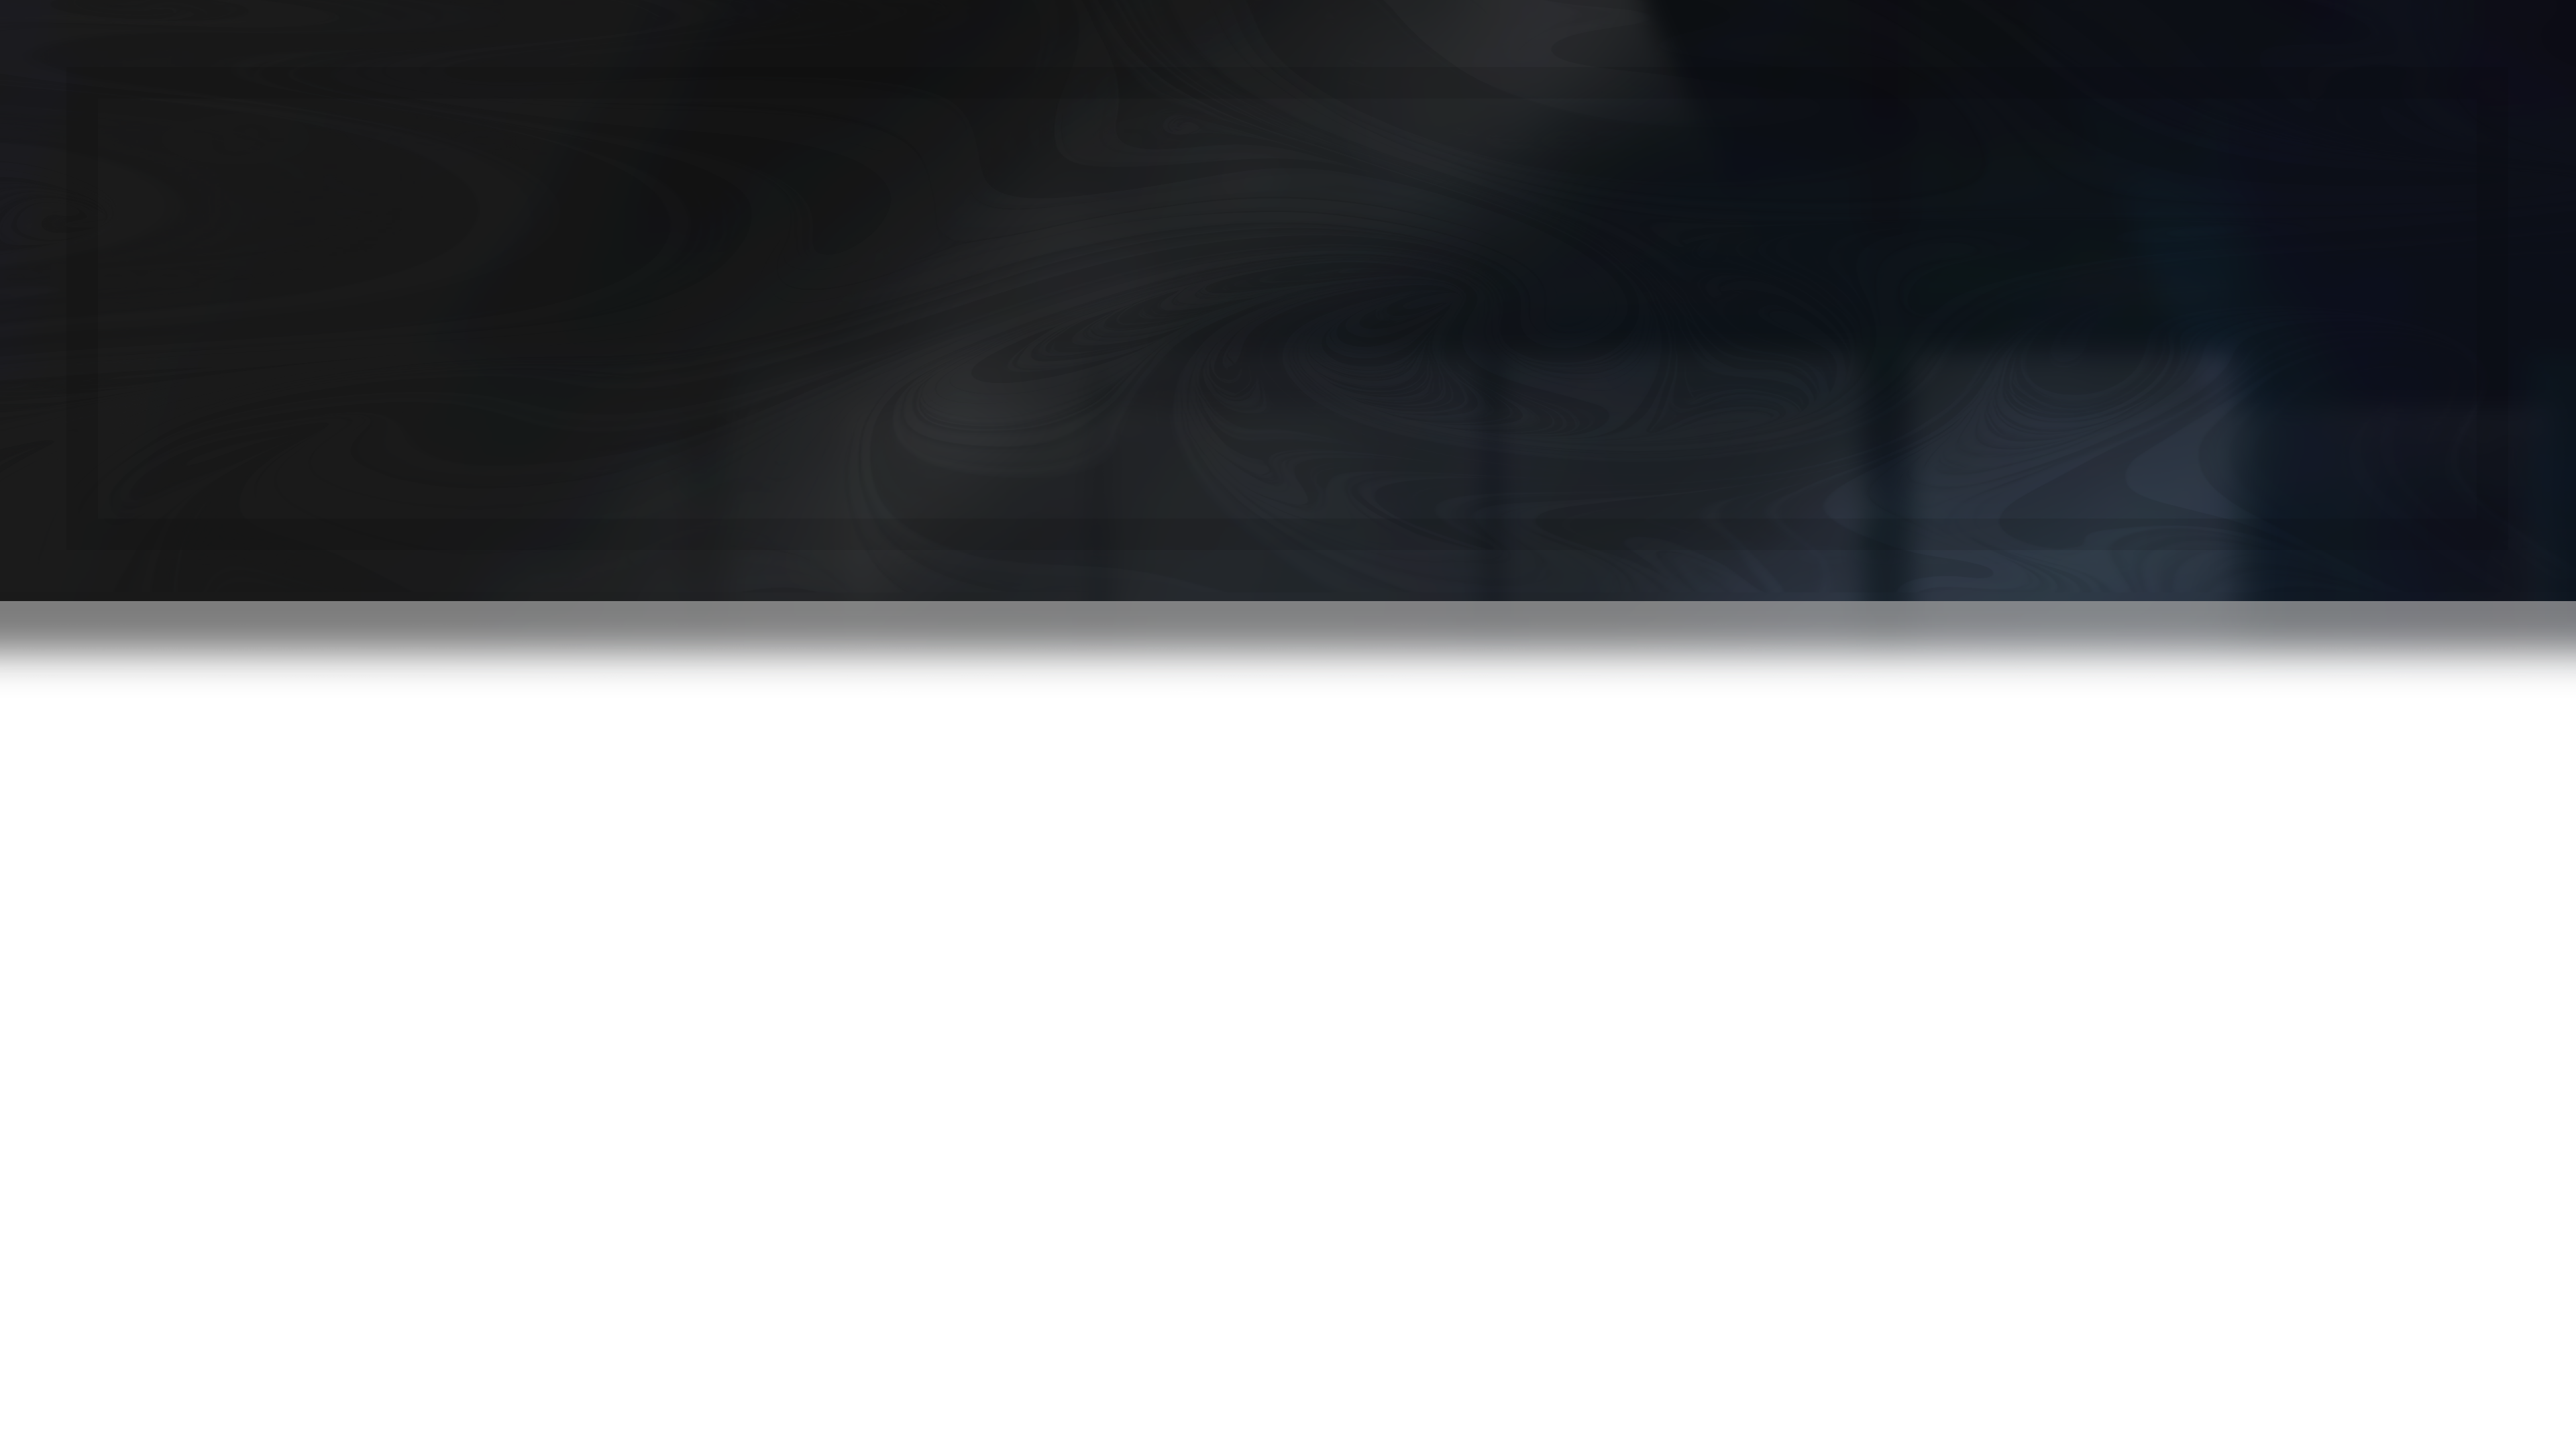
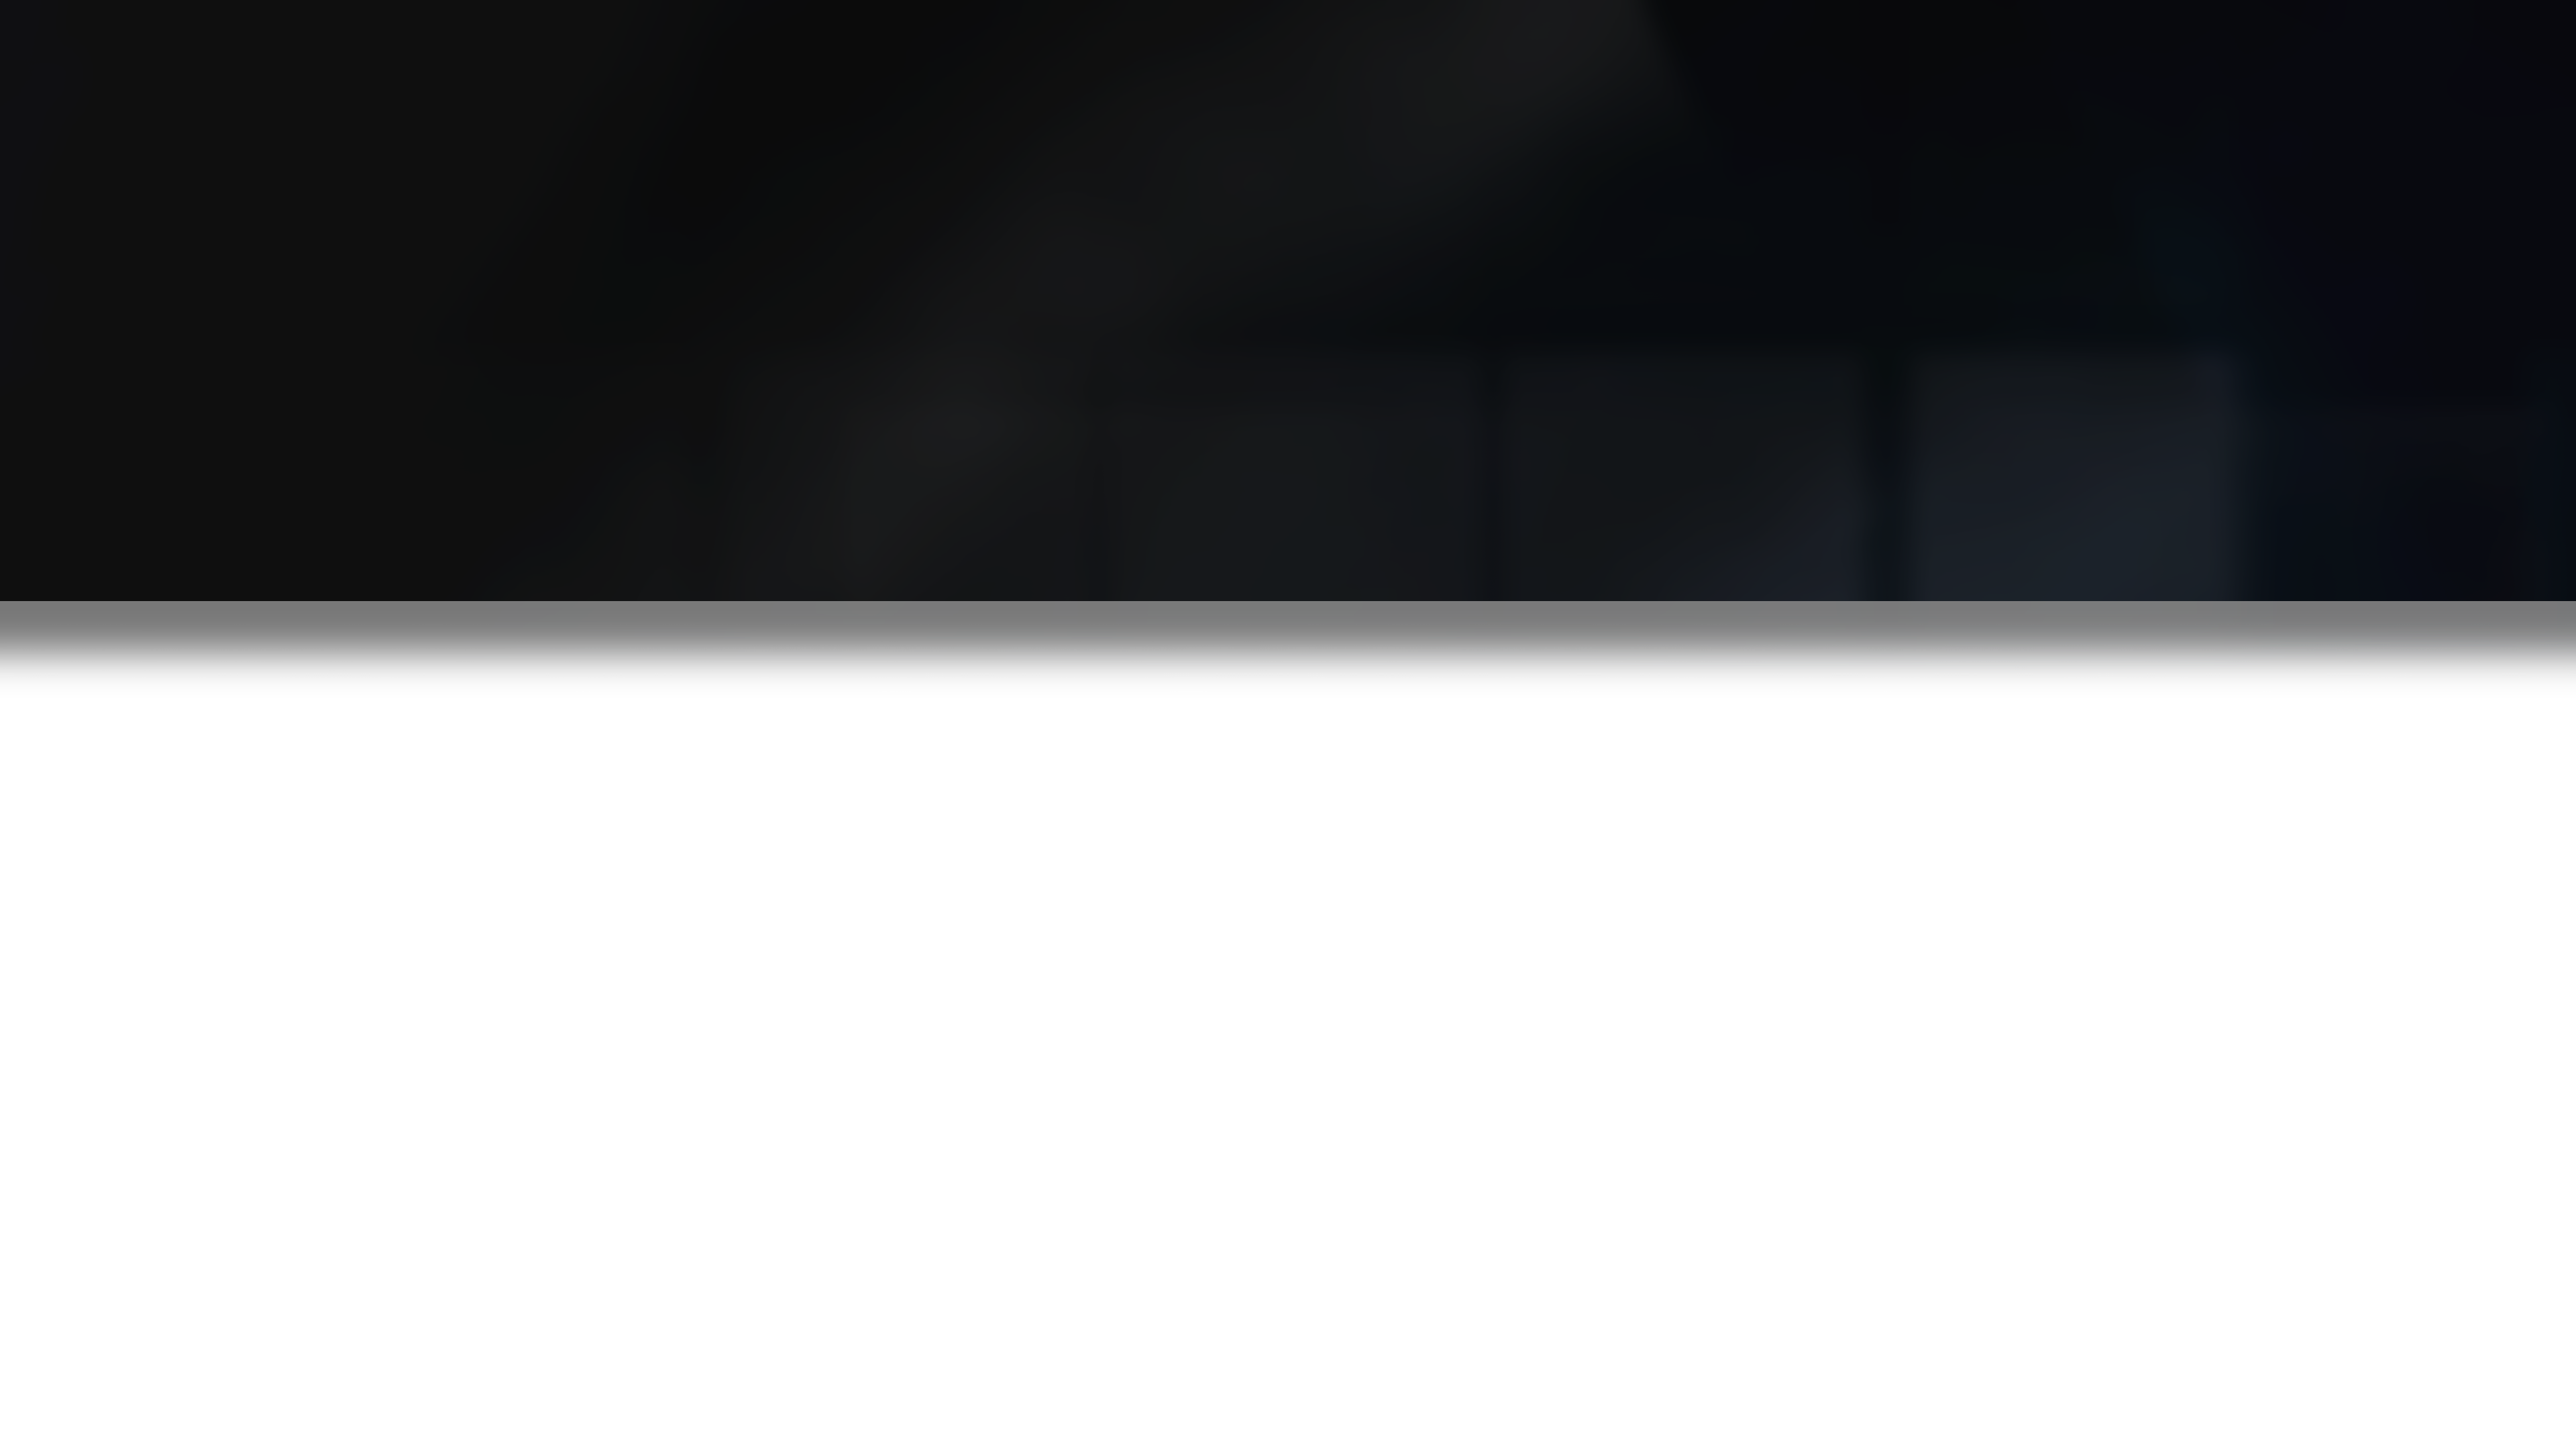
staff visual edits

Changed region(s): [[0.6875, 0.2792, 0.875, 0.4343], [0.6562, 0.3722, 0.7188, 0.4343]]

diff --git a/NewEntradoxWebsite/CSS/staff.css b/NewEntradoxWebsite/CSS/staff.css
@@ -882,10 +882,10 @@ body {
     transform: translate(-50%,-50%);
     width: auto;
     height: 100%;
-    left: 15%;
+    left: 13%;
     top: 50%;
     object-fit: cover;
-    opacity: 0.5;
+    opacity: 1;
     z-index: 11;
 
 }
@@ -919,56 +919,75 @@ body {
     top: 45%;
     object-fit: cover;
     position: absolute;
+    opacity: 0;
 }
 
 .AnimatableSqaureForHeadline {
     background-color: rgb(0, 0, 0);
     position: absolute;
     transform: translate(-50%,-50%);
-    width: 18%;
-    height: 100%;
-    left: 91%;
-    top: 50%;
-    z-index: 10;
+    width: 22%;
+    height: 150%;
+    left: 88%;
+    top: 26%;
+    z-index: 101;
 }
+.staffPageStaffContentXButton {
+    position: absolute;
+    font-weight: bold;
+    font-size: 2.5rem;
+    font-family: 'Servant', Arial, Helvetica, sans-serif;
+    color: white;
+    left: 90%;
+    top: 40%;
+    z-index: 2147483647;
+    background-color: rgba(102, 51, 153, 0);
+    transition: transform .15s linear;
+}
+.staffPageStaffContentXButton:hover {
+    transform: scale(1.2);
+}
+
 .StaffMemberHeadlineContainer-Name {
     position: absolute;
     z-index: 100;
-    color: rgb(107, 107, 107);
+    color: rgb(192, 192, 192);
     font-weight: bold;
-    font-size: 7rem;
-    font-family: 'Servant', Arial, Helvetica, sans-serif;
+    font-size: 2rem;
+    font-family: 'TW', Arial, Helvetica, sans-serif;
     width: 70%;
     height: 20%;
-    top: 80%;
+    top: 120%;
+    letter-spacing: 2PX;
     transform: translate(-50%,-50%);
-    left: 76%;
+    left: 80%;
     text-wrap: nowrap;
     transition: transform .3s ease-in-out;
 }
 
-.StaffMemberHeadlineContainer2{
+.StaffMemberHeadlineContainer2 {
     position: absolute;
-    transform: translate(-50%,-50%);
+    transform: translate(-50%, -50%);
     z-index: 100;
-    color: rgb(107, 107, 107);
+    color: rgba(186, 186, 186, 0.055);
     font-weight: bold;
-    font-size: 9rem;
+    font-size: 11rem;
     font-family: 'Servant', Arial, Helvetica, sans-serif;
     width: 100%;
     height: 100%;
-    top: 25%;
+    top: 50%;
     left: 50%;
     text-align: center;
-    text-wrap: nowrap;
-}
+    text-align: center;
+  }
+
 .MainRoleIconBehindImage {
     position: absolute;
     width: auto;
     height: 65%;
     left: 73%;
     top: 75%;
-    opacity: 0.1;
+    opacity: 0;
     transform: translate(-50%,-50%);
     z-index: 1;
 }
@@ -1040,27 +1059,13 @@ body {
     position: absolute;
     transform: translate(-50%,-50%);
     width: 90%;
-    height: 1%;
-    left: 0%;
+    height: 3px;
+    left: 20%;
     top: 43%;
     z-index: 10;
-    background-color: rgb(0, 174, 255);
+    background-color: rgb(0, 145, 213);
 }
 
-.LineThroughTopExtend p {
-    position: absolute;
-    font-family: 'Servant', Arial, Helvetica, sans-serif;
-    font-size: 1.1rem;
-    font-weight: bold;
-    color: white;
-    width: 10%;
-    top: -100%;
-    left: 104.5%;
-    text-align: center;
-    vertical-align: middle;
-    transform: translate(-50%,-50%);
-    background-color: rgb(35, 35, 35);
-}
 .StaffRoleTextDisplay {
     position: absolute;
     font-family: 'Servant', Arial, Helvetica, sans-serif;
@@ -1097,7 +1102,7 @@ body {
 .StaffRoleTextDisplay2 p {
     font-family: 'Servant', Arial, Helvetica, sans-serif;
     font-size: 1rem;
-    font-weight: lighter;
+    font-weight:lighter;
     transform: translate(-50%,-50%);
     left: 10%;
     top: -90%;
@@ -1108,11 +1113,11 @@ body {
 .FadedBackgroundForContainer {
     position: absolute;
     z-index: 1;
-    background: rgba(0, 0, 0, 0);
+    background: rgba(35, 35, 35, 0);
     width: 100%;
     height: 100%;
     object-fit: cover;
-    opacity: .5;
+    opacity: 0;
 }
 /*STAFF CONTAINER*/
 

diff --git a/NewEntradoxWebsite/CSS/main.html b/NewEntradoxWebsite/CSS/main.html
@@ -191,6 +191,7 @@
 
     <div data-custom="Staff" class="sectionWrapper" id="page5">
         
+    <div class="staffPageStaffContentXButton">X</div>
     <div data-custom="Staff" class="ContainerForStaffDescriptionBody">
         <img class="MainRoleIconBehindImage" src="/NewEntradoxWebsite/Assets/StaffIconsForNameList/managerIcon.png">
         <img class="HumanBody-Image" src="/NewEntradoxWebsite/Assets/StaffAssets/StaffPhotos/Name1.png">
@@ -198,7 +199,7 @@
         <img class="HumanBody-Icon" src="/NewEntradoxWebsite/Assets/StaffAssets/StaffIcons/0.webp">
         <img class="HeadlineContainerPicture" src="/NewEntradoxWebsite/HomeScreenAssets/staffPageOverlayAtTop.png">
         <div class="StaffMemberHeadlineContainer">
-            <div class="StaffMemberHeadlineContainer2">ENTRADOX MANAGER</div>
+            <div class="StaffMemberHeadlineContainer2">ENTRADOX STAFF</div>
             <div class="AnimatableSqaureForHeadline"></div>
             <div class="StaffMemberHeadlineContainer-Name"> DANIEL ASHTIANI
             </div>
@@ -209,7 +210,6 @@
             <img class="ImageForStaffLabelOnContainer" src="/NewEntradoxWebsite/HomeScreenAssets/entradoxWhiteLogo.png">
         </div>
         <div class="LineThroughTopExtend">
-            <p>STAFF</p>
         </div>
         <div class="ContainerForStaffDescriptionText">
             <div class="StaffRoleTextDisplay">
